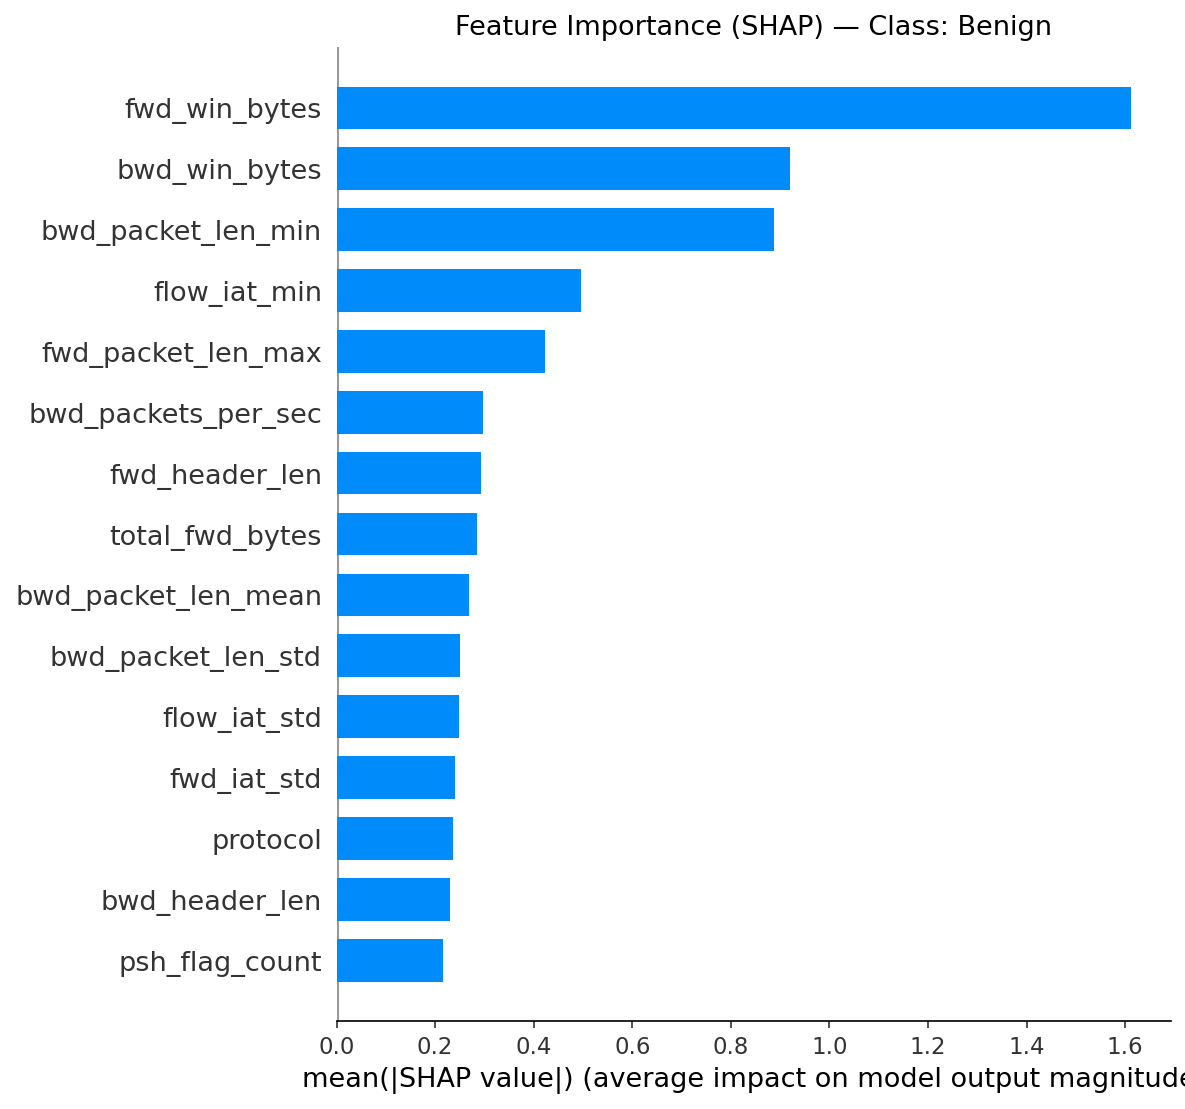
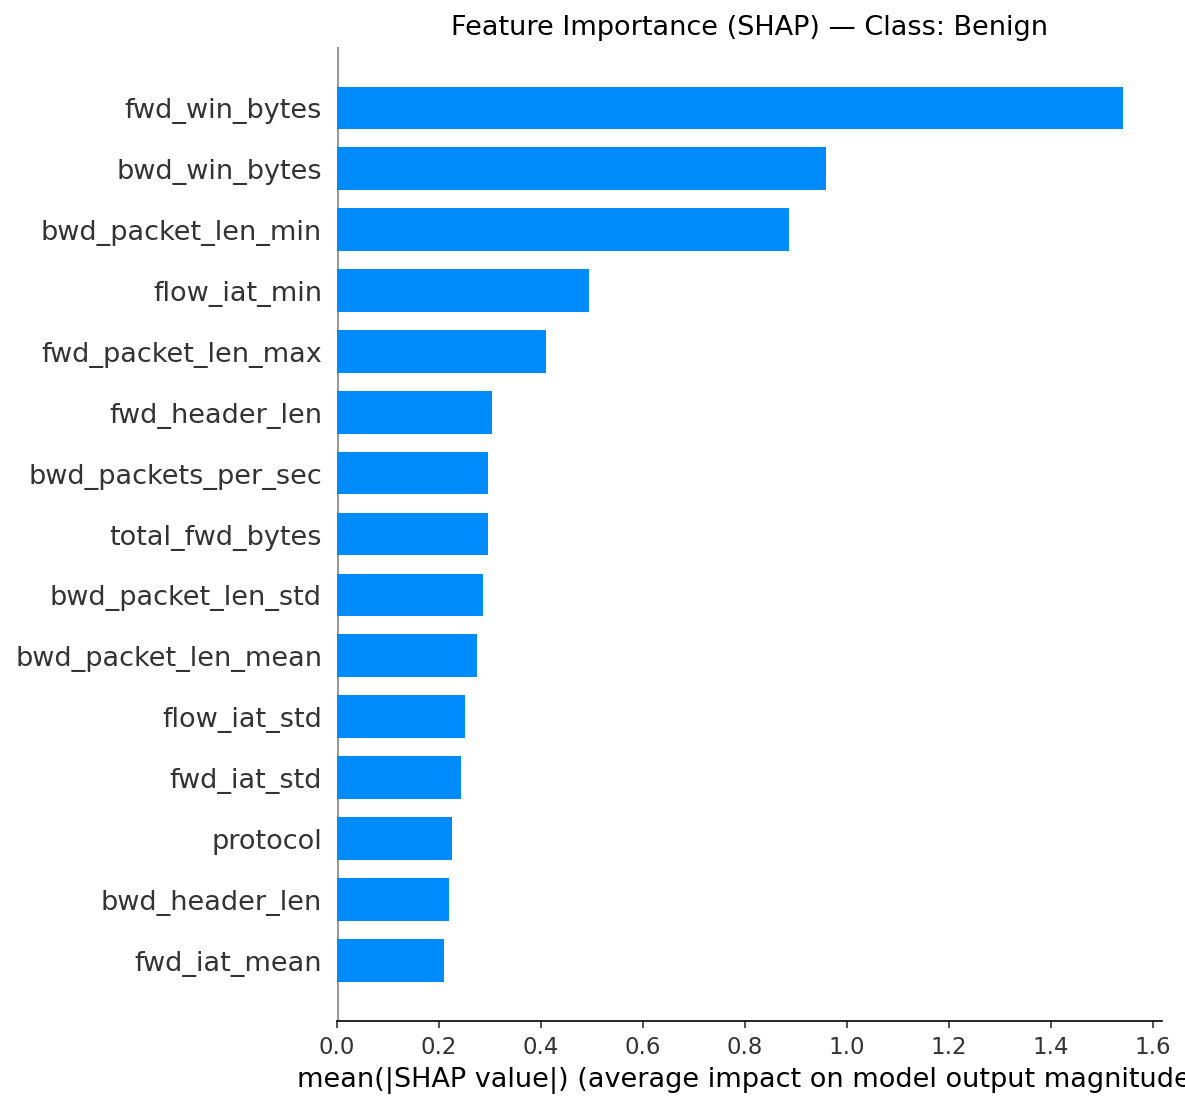
fix: define flow direction by initiator (CICIDS convention); retune isolation forest threshold

diff --git a/capture/sniffer.py b/capture/sniffer.py
@@ -11,6 +11,8 @@ Design decisions:
   - Bidirectional flows: (src_ip, src_port, dst_ip, dst_port, proto) is
     normalised so the smaller (ip, port) tuple is always "src", making
     A→B and B→A the same flow key.
+  - Direction: "forward" is the sender of the flow's FIRST packet (the
+    initiator), matching the CICIDS2017 definition the models were trained on.
   - Flow eviction: flows are evicted after `flow_timeout` seconds of
     inactivity and yielded to the consumer via a callback.
   - Thread safety: FlowTable uses a single RLock — capture thread writes,
@@ -42,6 +44,9 @@ class RawFlow:
     key: FlowKey
     start_time: float = field(default_factory=time.time)
     last_seen: float = field(default_factory=time.time)
+
+    # True if the first packet travelled in the canonical key direction
+    initiator_is_canon: bool = True
 
     # Forward direction (first packet direction)
     fwd_packets: list[dict] = field(default_factory=list)
@@ -122,8 +127,8 @@ def _normalise_key(
     proto: int,
 ) -> tuple[FlowKey, bool]:
     """
-    Return a canonical flow key and whether this packet is forward-direction.
-    Forward = whichever (ip, port) pair compares smaller lexicographically.
+    Return a canonical flow key and whether this packet is in the canonical
+    direction (the smaller (ip, port) pair compares as the key's "src").
     """
     a = (src_ip, src_port)
     b = (dst_ip, dst_port)
@@ -244,14 +249,19 @@ class PacketCapture:
                 udp = pkt[UDP]
                 src_port, dst_port = udp.sport, udp.dport
 
-            key, is_fwd = _normalise_key(src_ip, src_port, dst_ip, dst_port, proto)
+            key, canon_fwd = _normalise_key(src_ip, src_port, dst_ip, dst_port, proto)
             flow = self._table.get_or_create(key)
+
+            if not flow.fwd_packets and not flow.bwd_packets:
+                # First packet defines "forward": the initiator, as in CICIDS2017
+                flow.initiator_is_canon = canon_fwd
+                if use_pkt_time:
+                    flow.start_time = float(pkt.time)
+            is_fwd = canon_fwd == flow.initiator_is_canon
+
             if use_pkt_time:
                 # pcap replay: use the packet's own timestamp, not wall-clock time
-                pkt_time = float(pkt.time)
-                if not flow.fwd_packets and not flow.bwd_packets:
-                    flow.start_time = pkt_time
-                flow.last_seen = pkt_time
+                flow.last_seen = float(pkt.time)
             else:
                 flow.last_seen = time.time()
 

diff --git a/streaming/consumer.py b/streaming/consumer.py
@@ -177,17 +177,17 @@ class InferenceEngine:
                 if result.is_threat():
                     self._threats += 1
 
-                if result.is_threat():
-                    log.warning(
+            if result.is_threat():
+                log.warning(
                     "inference.threat_detected",
                     flow_id=flow.flow_id,
                     label=label_name,
                     confidence=confidence,
                     src=f"{flow.src_ip}:{flow.src_port}",
                     dst=f"{flow.dst_ip}:{flow.dst_port}",
-                    )
-                elif result.is_suspicious():
-                    log.info(
+                )
+            elif result.is_suspicious():
+                log.debug(
                     "inference.suspicious_flow",
                     flow_id=flow.flow_id,
                     anomaly_score=anomaly_score,

diff --git a/scripts/compare_features.py b/scripts/compare_features.py
@@ -56,9 +56,9 @@ def main():
     replay_pcap(pcap, col)
     flows = col.flows
     flood = max(flows, key=lambda f: f.syn_flag_count)
-    normal = max(flows, key=lambda f: f.total_fwd_bytes + f.total_bwd_bytes)
-    scan = next(f for f in flows if f is not flood and f is not normal)
-    zero = []
+    rest = [f for f in flows if f is not flood]
+    normal = max(rest, key=lambda f: f.fwd_packet_count + f.bwd_packet_count)
+    scan = next(f for f in rest if f is not normal)
     zero = show("SYN flood", flood, pp)
     show("Port-scan flow", scan, pp)
     show("Normal conversation", normal, pp)

diff --git a/models/anomaly_detector.py b/models/anomaly_detector.py
@@ -76,6 +76,10 @@ class AnomalyDetector:
         )
 
         self._model.fit(X_benign)
+        # Flag roughly the lowest 1% of benign scores as anomalous
+        benign_scores = self._model.score_samples(X_benign[:200_000])
+        self._threshold = float(np.percentile(benign_scores, 1))
+        log.info("isoforest.threshold_set", threshold=round(self._threshold, 4))
         log.info("isoforest.train.done")
         print(f"  ✓  Isolation Forest trained on {len(X_benign):,} benign samples")
 
